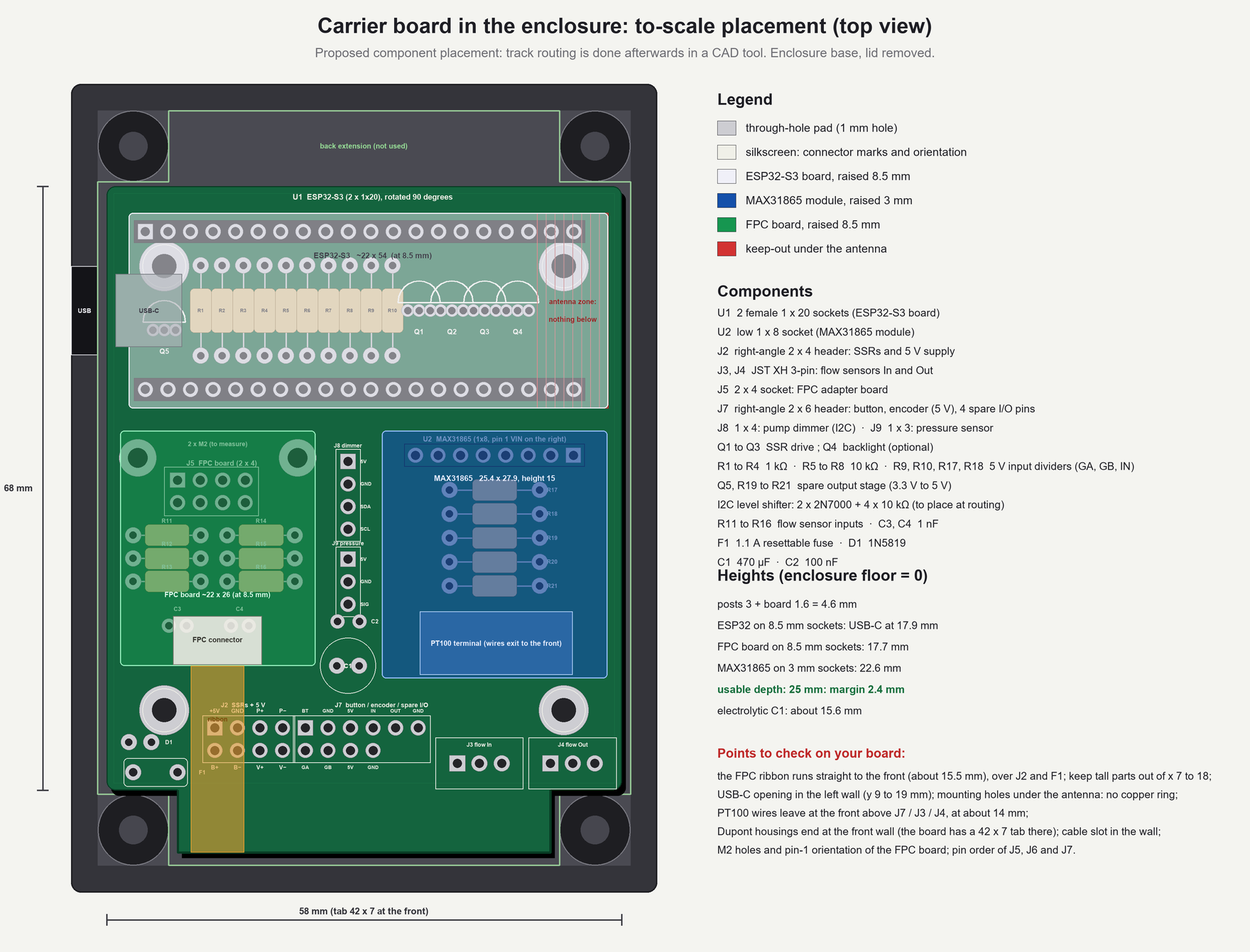
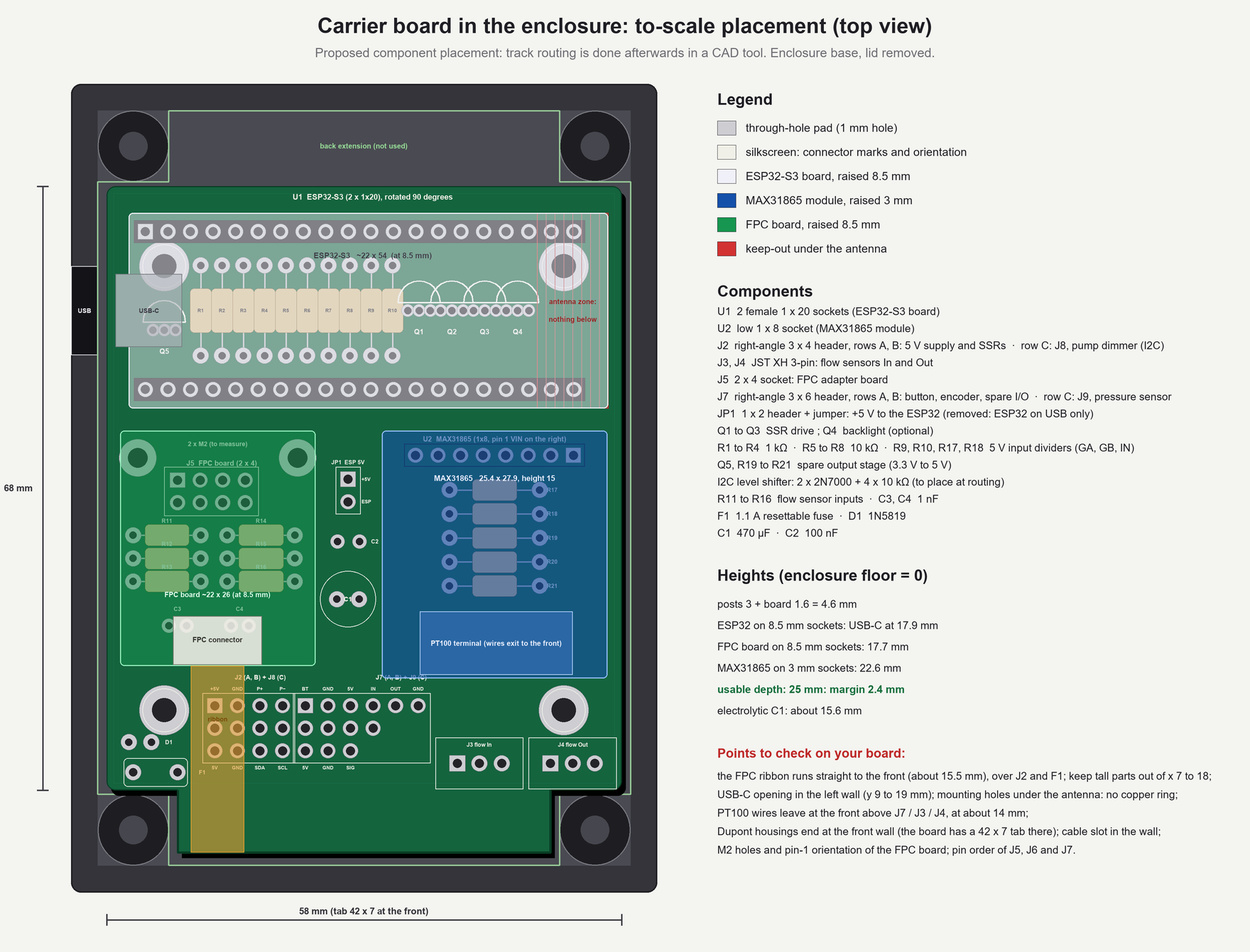
J8 under J2 and J9 under J7 on 3-row right-angle headers (Funduino 'courbe' 3x40); JP1 jumper on the ESP32 5V (fitted: external supply, removed: USB)

diff --git a/tools/board_placement.py b/tools/board_placement.py
@@ -164,48 +164,45 @@ for i, (name, xa) in enumerate([("C3", 7.0), ("C4", 14.0)]):
 
 # ---------------------------------------------------------------- front strip: J2 (2x4), J7 (1x6), polyfuse, diode, electrolytic, XH x2
 # Front edge: every right-angle header has its Dupont housings plugged in towards the front (about 9 mm of keep-out in front of the pads).
-# J2: 2 x 4 right-angle header, SSR + power (housing keep-out x 11.7 .. 21.9)
-for r_ in range(2):
+# J2 + J8: 3 x 4 right-angle header (three stacked rows of Dupont housings, "courbe" 3 x 40 strip cut to length). From the back of the
+# board: row A (+5 V, GND, pump) and row B (boiler, valve) are J2; row C, the lowest one, is J8 (pump dimmer, I2C), bare for now.
+ROWS = [58.5, 61.04, 63.58]
+for r_ in range(3):
     for c_ in range(4):
-        tpad(12.2 + c_ * 2.54, 61.0 + r_ * 2.54, square=(r_ == 0 and c_ == 0), ring=1.7, drill=1.0)
-rect(d, X(12.2) - 1.4 * K, Y(61.0) - 1.4 * K, X(12.2 + 3 * 2.54) + 1.4 * K, Y(63.54) + 1.4 * K, outline=SILK + (255,), width=2)
-silk(15.4, 58.4, "J2  SSRs + 5 V", 9)
+        tpad(12.2 + c_ * 2.54, ROWS[r_], square=(r_ == 0 and c_ == 0), ring=1.7, drill=1.0)
+rect(d, X(12.2) - 1.4 * K, Y(ROWS[0]) - 1.4 * K, X(12.2 + 3 * 2.54) + 1.4 * K, Y(ROWS[2]) + 1.4 * K, outline=SILK + (255,), width=2)
+silk(17.3, 55.3, "J2 (A, B) + J8 (C)", 9)
 for c_, lab in enumerate(["+5V", "GND", "P+", "P−"]):
-    text(d, X(12.2 + c_ * 2.54), Y(61.0) - 1.9 * K, lab, 8, SILK, True)
-for c_, lab in enumerate(["B+", "B−", "V+", "V−"]):
-    text(d, X(12.2 + c_ * 2.54), Y(63.54) + 1.9 * K, lab, 8, SILK, True)
-# J7: 2 x 6 right-angle header (two stacked rows of housings): button, encoder, and 4 spare pins (+5 V, IN, OUT, GND)
-# row A (top): BT, GND | +5 V, IN38, OUT39, GND      row B (bottom): +5 V, GND, A, B
+    text(d, X(12.2 + c_ * 2.54), Y(ROWS[0]) - 1.9 * K, lab, 7, SILK, True)
+for c_, lab in enumerate(["5V", "GND", "SDA", "SCL"]):
+    text(d, X(12.2 + c_ * 2.54), Y(ROWS[2]) + 1.9 * K, lab, 7, SILK, True)
+# J7 + J9: 3 x 6 right-angle header. Row A: button (2) + spare I/O (4); row B: encoder (GA, GB, VCC, GND); row C: J9, pressure sensor, bare.
 for c_ in range(6):
-    tpad(22.4 + c_ * 2.54, 61.0, square=(c_ == 0), ring=1.7, drill=1.0)
+    tpad(22.4 + c_ * 2.54, ROWS[0], square=(c_ == 0), ring=1.7, drill=1.0)
 for c_ in range(4):
-    tpad(22.4 + c_ * 2.54, 63.54, ring=1.7, drill=1.0)
-rect(d, X(22.4) - 1.4 * K, Y(61.0) - 1.4 * K, X(22.4 + 5 * 2.54) + 1.4 * K, Y(63.54) + 1.4 * K, outline=SILK + (255,), width=2)
-silk(31.0, 58.4, "J7  button / encoder / spare I/O", 9)
+    tpad(22.4 + c_ * 2.54, ROWS[1], ring=1.7, drill=1.0)
+for c_ in range(3):
+    tpad(22.4 + c_ * 2.54, ROWS[2], ring=1.7, drill=1.0)
+rect(d, X(22.4) - 1.4 * K, Y(ROWS[0]) - 1.4 * K, X(22.4 + 5 * 2.54) + 1.4 * K, Y(ROWS[2]) + 1.4 * K, outline=SILK + (255,), width=2)
+silk(33.2, 55.3, "J7 (A, B) + J9 (C)", 9)
 for c_, lab in enumerate(["BT", "GND", "5V", "IN", "OUT", "GND"]):
-    text(d, X(22.4 + c_ * 2.54), Y(61.0) - 1.9 * K, lab, 7, SILK, True)
-for c_, lab in enumerate(["GA", "GB", "5V", "GND"]):
-    text(d, X(22.4 + c_ * 2.54), Y(63.54) + 1.9 * K, lab, 7, SILK, True)
-# J8: 1 x 4 vertical header, dimmer (I2C), in the corridor between the FPC board and the MAX31865; J9: 1 x 3, pressure sensor
-for i, lab in enumerate(["5V", "GND", "SDA", "SCL"]):
-    tpad(27.2, 31.0 + i * 2.54, square=(i == 0), ring=1.7, drill=1.0)
-    text(d, X(28.6), Y(31.0 + i * 2.54), lab, 7, SILK, True, 'lm')
-rect(d, X(27.2) - 1.4 * K, Y(31.0) - 1.4 * K, X(27.2) + 1.4 * K, Y(31.0 + 3 * 2.54) + 1.4 * K, outline=SILK + (255,), width=2)
-silk(27.2, 29.2, "J8 dimmer", 8)
-for i, lab in enumerate(["5V", "GND", "SIG"]):
-    tpad(27.2, 42.0 + i * 2.54, square=(i == 0), ring=1.7, drill=1.0)
-    text(d, X(28.6), Y(42.0 + i * 2.54), lab, 7, SILK, True, 'lm')
-rect(d, X(27.2) - 1.4 * K, Y(42.0) - 1.4 * K, X(27.2) + 1.4 * K, Y(42.0 + 2 * 2.54) + 1.4 * K, outline=SILK + (255,), width=2)
-silk(27.2, 40.2, "J9 pressure", 8)
+    text(d, X(22.4 + c_ * 2.54), Y(ROWS[0]) - 1.9 * K, lab, 7, SILK, True)
+for c_, lab in enumerate(["5V", "GND", "SIG"]):
+    text(d, X(22.4 + c_ * 2.54), Y(ROWS[2]) + 1.9 * K, lab, 7, SILK, True)
+# JP1: 1 x 2 header + shunt in the corridor: +5 V board to the 5V pin of the ESP32 (fitted: normal; removed: the ESP32 on USB only)
+tpad(27.2, 33.0, square=True, ring=1.7, drill=1.0); tpad(27.2, 35.54, ring=1.7, drill=1.0)
+rect(d, X(27.2) - 1.4 * K, Y(33.0) - 1.4 * K, X(27.2) + 1.4 * K, Y(35.54) + 1.4 * K, outline=SILK + (255,), width=2)
+silk(27.2, 31.1, "JP1  ESP 5V", 8)
+text(d, X(28.7), Y(33.0), "+5V", 7, SILK, True, 'lm'); text(d, X(28.7), Y(35.54), "ESP", 7, SILK, True, 'lm')
 # F1 polyfuse (radial, pitch 5) and D1 1N5819 (standing) in the front-left corner, in front of the mounting hole
 tpad(3.0, 66.0, ring=1.8, drill=0.9); tpad(8.0, 66.0, ring=1.8, drill=0.9)
 rrect(d, X(1.9), Y(64.4), X(9.1), Y(67.6), 6, outline=SILK + (255,), width=2); text(d, X(10.4), Y(66.0), "F1", 8, SILK, True, 'lm')
 tpad(2.5, 62.6, ring=1.8, drill=0.8); tpad(5.04, 62.6, ring=1.8, drill=0.8)
 text(d, X(6.6), Y(62.6), "D1", 8, SILK, True, 'lm')
 # C1 470 uF (radial 6.3 mm) and C2 100 nF, in the corridor
-circ(d, X(27.2), Y(54.0), 3.15 * K, fill=None, outline=SILK + (255,), width=2)
-tpad(25.95, 54.0, ring=1.8, drill=0.8); tpad(28.45, 54.0, ring=1.8, drill=0.8); silk(27.2, 54.0, "C1", 9)
-tpad(26.0, 49.0, ring=1.6, drill=0.8); tpad(28.5, 49.0, ring=1.6, drill=0.8); text(d, X(29.8), Y(49.0), "C2", 8, SILK, True, 'lm')
+circ(d, X(27.2), Y(46.5), 3.15 * K, fill=None, outline=SILK + (255,), width=2)
+tpad(25.95, 46.5, ring=1.8, drill=0.8); tpad(28.45, 46.5, ring=1.8, drill=0.8); silk(27.2, 46.5, "C1", 9)
+tpad(26.0, 40.0, ring=1.6, drill=0.8); tpad(28.5, 40.0, ring=1.6, drill=0.8); text(d, X(29.8), Y(40.0), "C2", 8, SILK, True, 'lm')
 # JST XH x2: vertical headers, pins along x, the plugs come out upwards: no keep-out towards the front, away from the ribbon path (x 7 to 18)
 for k, (x0, name) in enumerate([(42.0, "J3 flow In"), (52.5, "J4 flow Out")]):
     for i in range(3):
@@ -271,11 +268,11 @@ text(d, lx, 410, "Components", 22, INK, True, 'lm')
 comp = [
     "U1  2 female 1 x 20 sockets (ESP32-S3 board)",
     "U2  low 1 x 8 socket (MAX31865 module)",
-    "J2  right-angle 2 x 4 header: SSRs and 5 V supply",
+    "J2  right-angle 3 x 4 header, rows A, B: 5 V supply and SSRs  ·  row C: J8, pump dimmer (I2C)",
     "J3, J4  JST XH 3-pin: flow sensors In and Out",
     "J5  2 x 4 socket: FPC adapter board",
-    "J7  right-angle 2 x 6 header: button, encoder (5 V), 4 spare I/O pins",
-    "J8  1 x 4: pump dimmer (I2C)  ·  J9  1 x 3: pressure sensor",
+    "J7  right-angle 3 x 6 header, rows A, B: button, encoder, spare I/O  ·  row C: J9, pressure sensor",
+    "JP1  1 x 2 header + jumper: +5 V to the ESP32 (removed: ESP32 on USB only)",
     "Q1 to Q3  SSR drive ; Q4  backlight (optional)",
     "R1 to R4  1 kΩ  ·  R5 to R8  10 kΩ  ·  R9, R10, R17, R18  5 V input dividers (GA, GB, IN)",
     "Q5, R19 to R21  spare output stage (3.3 V to 5 V)",
@@ -285,7 +282,7 @@ comp = [
     "C1  470 µF  ·  C2  100 nF",
 ]
 for i, t in enumerate(comp):
-    text(d, lx, 440 + i * 27, t, 15, INK, False, 'lm')
+    text(d, lx, 438 + i * 24, t, 15, INK, False, 'lm')
 
 text(d, lx, 810, "Heights (enclosure floor = 0)", 22, INK, True, 'lm')
 hs = [

diff --git a/tools/enclosure_overview.py b/tools/enclosure_overview.py
@@ -150,29 +150,28 @@ cuboid(ax0, ay0, top + HDR, 22, 26.5, 1.6, (22, 130, 70))
 cuboid(ax0 + 6, ay0 + 19.0, top + HDR + 1.6, 10, 5.5, 2.6, WHITE)                      # its FPC connector
 cuboid(ax0 + 1.0, ay0 + 3.1, top, 3.5, 3.5, HDR, (110, 110, 118))
 cuboid(ax0 + 17.5, ay0 + 3.1, top, 3.5, 3.5, HDR, (110, 110, 118))
-# J8 (dimmer, 1 x 4) and J9 (pressure, 1 x 3): straight headers in the corridor, plugs seated on top
-J8X, J8Y = CX0 + 27.2 - 1.27, CY0 + 31.0 - 1.27
-J9X, J9Y = CX0 + 27.2 - 1.27, CY0 + 42.0 - 1.27
-# (provisioned only: bare headers with their pins, nothing plugged in)
-cuboid(J8X, J8Y, top, 2.54, 10.16, 2.5, BLACK)
-cuboid(J9X, J9Y, top, 2.54, 7.62, 2.5, BLACK)
-for i in range(4):
-    cuboid(CX0 + 27.2 - 0.32, CY0 + 31.0 + i * 2.54 - 0.32, top + 2.5, 0.64, 0.64, 6.0, GOLD)
-for i in range(3):
-    cuboid(CX0 + 27.2 - 0.32, CY0 + 42.0 + i * 2.54 - 0.32, top + 2.5, 0.64, 0.64, 6.0, GOLD)
-# J2 (2 x 4 right-angle, rows stacked vertically) and ONE 2 x 4 housing plugged in from the front
-cuboid(CX0 + 12.2 - 1.27, CY0 + 60.2, top, 10.16, 5.0, 5.9, BLACK)
-cuboid(CX0 + 12.2 - 1.27 + 0.15, CY0 + 65.2, top + 0.4, 10.0, 8.6, 5.1, WHITE)
-# J7 (2 x 6 right-angle): lower row = 4-pin encoder housing, upper row = 2-pin button + 4-pin spare housings
-cuboid(CX0 + 22.4 - 1.27, CY0 + 60.2, top, 15.24, 5.0, 5.9, BLACK)
-cuboid(CX0 + 22.4 - 1.27 + 0.15, CY0 + 65.2, top + 0.4, 10.0, 8.6, 2.3, WHITE)
-cuboid(CX0 + 22.4 - 1.27 + 0.15, CY0 + 65.2, top + 3.0, 4.9, 8.6, 2.3, WHITE)
-cuboid(CX0 + 22.4 - 1.27 + 5.23, CY0 + 65.2, top + 3.0, 9.9, 8.6, 2.3, (225, 222, 205))
+# JP1: 1 x 2 header with its shunt in the corridor (+5 V board to the 5V pin of the ESP32)
+cuboid(CX0 + 27.2 - 1.27, CY0 + 33.0 - 1.27, top, 2.54, 5.08, 2.5, BLACK)
+for yy in (33.0, 35.54):
+    cuboid(CX0 + 27.2 - 0.32, CY0 + yy - 0.32, top + 2.5, 0.64, 0.64, 6.0, GOLD)
+cuboid(CX0 + 27.2 - 1.2, CY0 + 33.0 - 1.2, top + 2.5, 2.4, 4.9, 5.5, (40, 40, 44))      # the shunt, in place
+# J2 + J8: 3 x 4 right-angle header (3 rows: A and B = J2, C = J8, the lowest, bare), ONE 2 x 4 housing on rows A and B
+cuboid(CX0 + 12.2 - 1.27, CY0 + 57.7, top, 10.16, 7.8, 8.4, BLACK)
+cuboid(CX0 + 12.2 - 1.27 + 0.15, CY0 + 65.6, top + 2.9, 10.0, 8.6, 5.1, WHITE)
+for i in range(4):                                                                       # the bare pins of J8 (row C)
+    cuboid(CX0 + 12.2 + i * 2.54 - 0.32, CY0 + 65.5, top + 1.27 - 0.32, 0.64, 6.0, 0.64, GOLD)
+# J7 + J9: 3 x 6 right-angle header (A: button + spare, B: encoder, C: J9, bare)
+cuboid(CX0 + 22.4 - 1.27, CY0 + 57.7, top, 15.24, 7.8, 8.4, BLACK)
+cuboid(CX0 + 22.4 - 1.27 + 0.15, CY0 + 65.6, top + 2.95, 10.0, 8.6, 2.3, WHITE)
+cuboid(CX0 + 22.4 - 1.27 + 0.15, CY0 + 65.6, top + 5.5, 4.9, 8.6, 2.3, WHITE)
+cuboid(CX0 + 22.4 - 1.27 + 5.23, CY0 + 65.6, top + 5.5, 9.9, 8.6, 2.3, (225, 222, 205))
+for i in range(3):                                                                       # the bare pins of J9 (row C)
+    cuboid(CX0 + 22.4 + i * 2.54 - 0.32, CY0 + 65.5, top + 1.27 - 0.32, 0.64, 6.0, 0.64, GOLD)
 # polyfuse, standing diode, electrolytic, 100 nF, and the two JST XH (vertical headers with their plugs)
 cuboid(CX0 + 1.9, CY0 + 64.4, top, 7.2, 3.2, 11.0, (232, 200, 60))
 cuboid(CX0 + 1.2, CY0 + 61.2, top, 2.7, 2.7, 5.2, BLACK)
-cyl(CX0 + 27.2, CY0 + 54.0, 3.15, top, 12.0, (30, 40, 90))                                # 470 uF electrolytic
-cuboid(CX0 + 25.5, CY0 + 48.2, top, 4.0, 1.6, 4.2, (200, 120, 40))                        # 100 nF
+cyl(CX0 + 27.2, CY0 + 46.5, 3.15, top, 12.0, (30, 40, 90))                                # 470 uF electrolytic
+cuboid(CX0 + 25.5, CY0 + 39.2, top, 4.0, 1.6, 4.2, (200, 120, 40))                        # 100 nF
 for k in range(2):
     xb = CX0 + 42.0 + k * 10.5 - 4.95
     cuboid(xb, CY0 + 62.1, top, 9.9, 5.8, 5.8, WHITE)                                     # JST XH header
@@ -218,18 +217,18 @@ def riser_x(xc, yc, z0, z1, wires, color):
     cuboid(xc - w / 2, yc - TH / 2, z0, w, TH, z1 - z0, color)
 
 
-Y0 = CY0 + 73.8
+Y0 = CY0 + 74.2
 # J2: one 2 x 4 housing, two ribbons of 4 wires (row A on top: 5 V, GND, pump; row B below: boiler, valve)
 xj2 = CX0 + 12.2 + 1.5 * 2.54
 cA, cB = (205, 35, 35), (232, 130, 30)
-run_x(xj2, Y0, Y_END, top + 0.4 + 3.82, 4, cA); cable("row A: 5 V, GND, pump", "J2", 4, cA, (xj2, Y_END, top + 0.4 + 3.82))
-run_x(xj2, Y0, Y_END, top + 0.4 + 1.28, 4, cB); cable("row B: boiler, valve", "J2", 4, cB, (xj2, Y_END, top + 0.4 + 1.28))
+run_x(xj2, Y0, Y_END, top + 2.9 + 3.82, 4, cA); cable("row A: 5 V, GND, pump", "J2", 4, cA, (xj2, Y_END, top + 2.9 + 3.82))
+run_x(xj2, Y0, Y_END, top + 2.9 + 1.28, 4, cB); cable("row B: boiler, valve", "J2", 4, cB, (xj2, Y_END, top + 2.9 + 1.28))
 # J7: button (2 wires), encoder (4 wires, lower row), spare I/O (4 wires)
 xb, xe, xs = CX0 + 22.4 + 1.27, CX0 + 22.4 + 3.81, CX0 + 22.4 + 8.89
-run_x(xb, Y0, Y_END, top + 4.15, 2, (240, 240, 240)); cable("button", "J7", 2, (240, 240, 240), (xb, Y_END, top + 4.15))
-run_x(xe, Y0, Y_END, top + 1.55, 4, (40, 150, 70)); cable("encoder", "J7", 4, (40, 150, 70), (xe, Y_END, top + 1.55))
-run_x(xs, Y0, Y_END, top + 4.15, 4, (150, 90, 200)); cable("spare I/O", "J7", 4, (150, 90, 200), (xs, Y_END, top + 4.15))
-# J8 (dimmer) and J9 (pressure sensor) are provisioned but not plugged: no cable here
+run_x(xb, Y0, Y_END, top + 6.65, 2, (240, 240, 240)); cable("button", "J7", 2, (240, 240, 240), (xb, Y_END, top + 6.65))
+run_x(xe, Y0, Y_END, top + 4.1, 4, (40, 150, 70)); cable("encoder", "J7", 4, (40, 150, 70), (xe, Y_END, top + 4.1))
+run_x(xs, Y0, Y_END, top + 6.65, 4, (150, 90, 200)); cable("spare I/O", "J7", 4, (150, 90, 200), (xs, Y_END, top + 6.65))
+# J8 (dimmer, row C of J2) and J9 (pressure sensor, row C of J7) are provisioned but not plugged: no cable here
 # JST XH: flow sensors (3 wires each), up from the plugs then forward
 c3, c4 = (20, 150, 150), (90, 80, 190)
 riser_x(CX0 + 40.5, CY0 + 65.0, top + 11.8, top + 14.0, 3, c3)
@@ -299,7 +298,7 @@ pl(ax0 + 11, ay0 + 22, top + HDR + 4.2, 330, 520, "FPC connector pre-soldered")
 pl(sx0, sy0 + 50, FLOOR + 3, 330, 640, "3 mm small posts (45 x 50)")
 pl(BX - WALL - 4, BY - WALL - 4, BASE_H, 1560, 520, "8 mm round corner posts")
 pl(CX0 + 30, BY, FW, 1560, 640, "slot to cut in the front wall (cables)")
-pl(CX0 + 27.2, CY0 + 40, top + 8.5, 330, 740, "J8, J9: provisioned, not plugged")
+pl(CX0 + 27.2, CY0 + 34, top + 8.5, 330, 740, "JP1: jumper, +5 V to the ESP32")
 
 # numbered tags at the cable ends, staggered so that they do not overlap
 ends = []

diff --git a/tools/board_schematic.py b/tools/board_schematic.py
@@ -31,40 +31,37 @@ def head(x, y, title, sub=None):
     if sub:
         T(x, y + 28, sub, F(15), GRY, 'lm')
 
-# ---- J2 : 2 x 4 right-angle header, ONE 2 x 4 Dupont housing, two ribbons of 4 wires (one per row)
-head(60, 118, "J2: right-angle 2 x 4 male header, one 2 x 4 Dupont housing", "two ribbons of 4 wires: row A (top) and row B (bottom)")
+# ---- J2 + J8 : 3 x 4 right-angle header (3 stacked rows), J7 + J9 : 3 x 6
+head(60, 118, "J2 + J8: right-angle 3 x 4 male header", "rows A and B: J2 (one 2 x 4 housing, two ribbons of 4 wires); row C: J8")
 rowA = [("+5 V", RED), ("GND", DK), ("pump +", BRN), ("pump −", BRN)]
 rowB = [("boiler +", ORG), ("boiler −", ORG), ("valve +", YEL), ("valve −", YEL)]
-x0, yA, yB = 60, 190, 240
+rowC = [("+5 V", RED), ("GND", DK), ("SDA", VIO), ("SCL", VIO)]
+x0, yA, yB, yC = 60, 186, 232, 278
 for i, (lab, col) in enumerate(rowA):
     pin(x0 + i * 88, yA, lab, col, 14)
 for i, (lab, col) in enumerate(rowB):
     pin(x0 + i * 88, yB, lab, col, 14)
-T(x0 + 2 * 88, 306, "ribbon 1: 5 V supply + pump SSR", F(13, True), RED, 'mm') if False else None
-T(x0 + 176, 306, "ribbon 1 (row A): 5 V supply, then pump SSR", F(13, True), RED)
-T(x0 + 176, 328, "ribbon 2 (row B): boiler SSR, then valve SSR", F(13, True), ORG)
-T(x0 + 370, 214, "a 2 x 4 housing can be plugged 180 degrees", F(14), GRY, 'lm')
-T(x0 + 370, 236, "the wrong way round: use a keyed (shrouded)", F(14), GRY, 'lm')
-T(x0 + 370, 258, "2 x 4 header, or mark the housing", F(14), GRY, 'lm')
+for i, (lab, col) in enumerate(rowC):
+    pin(x0 + i * 88, yC, lab, col, 14)
+T(x0 + 370, 196, "row A: 5 V supply + pump SSR (ribbon 1)", F(14, True), RED, 'lm')
+T(x0 + 370, 242, "row B: boiler SSR + valve SSR (ribbon 2)", F(14, True), ORG, 'lm')
+T(x0 + 370, 288, "row C: J8 pump dimmer, RobotDyn (I2C)", F(14, True), VIO, 'lm')
+T(x0 + 370, 312, "a 2 x 4 housing can be plugged 180 degrees the wrong way:", F(13), GRY, 'lm')
+T(x0 + 370, 330, "mark it, or key the header", F(13), GRY, 'lm')
 
-# ---- J7 : 2 x 6 (two stacked rows of housings)
-head(60, 350, "J7: right-angle 2 x 6 male header: button, encoder (5 V) and 4 spare I/O pins")
+head(60, 366, "J7 + J9: right-angle 3 x 6 male header")
 j7a = [("button", (90, 90, 96)), ("GND", DK), ("+5 V", RED), ("IN 38", VIO), ("OUT 39", VIO), ("GND", DK)]
 j7b = [("GA", GRN), ("GB", GRN), ("+5 V", RED), ("GND", DK)]
+j7c = [("+5 V", RED), ("GND", DK), ("signal", BLU)]
 for i, (lab, col) in enumerate(j7a):
-    pin(60 + i * 88, 382, lab, col, 14)
+    pin(60 + i * 88, 396, lab, col, 14)
 for i, (lab, col) in enumerate(j7b):
-    pin(60 + i * 88, 430, lab, col, 14)
-T(620, 404, "row A: 2-pin + 4-pin spare", F(14), GRY, 'lm')
-T(620, 452, "row B: 4-pin encoder (module order)", F(14), GRY, 'lm')
-
-# ---- J8 / J9
-head(60, 490, "J8: pump dimmer (I2C)", "RobotDyn 4 A, DimmerLink")
-for i, (lab, col) in enumerate([("+5 V", RED), ("GND", DK), ("SDA", VIO), ("SCL", VIO)]):
-    pin(60 + i * 88, 548, lab, col, 14)
-head(480, 490, "J9: pressure sensor", "0.5 to 4.5 V, 0 to 12 bar")
-for i, (lab, col) in enumerate([("+5 V", RED), ("GND", DK), ("signal", BLU)]):
-    pin(480 + i * 88, 548, lab, col, 14)
+    pin(60 + i * 88, 442, lab, col, 14)
+for i, (lab, col) in enumerate(j7c):
+    pin(60 + i * 88, 488, lab, col, 14)
+T(620, 418, "row A: button (2) + spare I/O (4)", F(14), GRY, 'lm')
+T(620, 464, "row B: encoder (module order)", F(14), GRY, 'lm')
+T(620, 510, "row C: J9 pressure sensor", F(14), GRY, 'lm')
 
 # ---- J3 / J4
 head(60, 628, "J3, J4: JST XH 3-pin, flow sensors In and Out", "sensor wire order: often red / yellow / black: check your cable")
@@ -92,7 +89,7 @@ for i, (lab, col) in enumerate(mx):
 # ================================================================ 2. GPIO table
 gx = 860
 T(gx, 118, "ESP32-S3: pins used", F(22, True), INK, 'lm')
-rows = [("5V", "+5 V (after diode and fuse): MAX, dimmer", RED), ("3V3", "display, I2C pull-ups (3.3 V side)", RED),
+rows = [("5V", "+5 V via JP1 (after diode and fuse)", RED), ("3V3", "display, I2C pull-ups (3.3 V side)", RED),
         ("GPIO 17", "pump SSR drive", BRN), ("GPIO 18", "boiler SSR drive", ORG), ("GPIO 21", "valve SSR drive", YEL),
         ("GPIO 15", "flow In", BLU), ("GPIO 16", "flow Out", BLU), ("GPIO 1", "pressure sensor (ADC)", BLU),
         ("GPIO 4 / 5", "encoder A / B", GRN), ("GPIO 6", "start button", (90, 90, 96)),
@@ -146,6 +143,9 @@ T(cx0 + 300, 200, "+5 V board", F(14, True), RED, 'lm')
 L([(cx0 + 215, 200), (cx0 + 215, 232)], RED, 2)
 L([(cx0 + 205, 232), (cx0 + 225, 232)], INK, 3); L([(cx0 + 205, 240), (cx0 + 225, 240)], INK, 3)
 L([(cx0 + 215, 240), (cx0 + 215, 262)], INK, 2); T(cx0 + 215, 276, "470 µF + 100 nF", F(11, True))
+
+T(cx0, 292, "JP1 (1 x 2 header + jumper): +5 V board -> ESP32 5V pin", F(12, True), RED, 'lm')
+T(cx0, 306, "fitted: normal; removed: the ESP32 is powered by its USB port", F(12), GRY, 'lm')
 
 # SSR driver
 T(cx0, 330, "SSR drive (x3)", F(17, True), BRN, 'lm')
@@ -202,6 +202,7 @@ T(cx0 + 20, 1310, "GPIO high -> OUT low; GPIO low -> OUT 5 V (invert in firmware
 # ================================================================ 4. notes
 T(60, 1140, "Design notes", F(22, True), INK, 'lm')
 notes = [
+    "JP1: fitted, the ESP32 takes its 5 V from the board; removed, from its USB port only (never fit it with USB plugged).",
     "The three voltage levels: +5 V board (after fuse and diode), 3.3 V from the ESP32-S3 board, common GND.",
     "The display module has its own backlight transistor: BLK is driven directly by GPIO 14 (stage Q4 optional).",
     "No regulator on the board: the ESP32-S3 provides the 3.3 V, which now only feeds the display and the I2C pull-ups.",

diff --git a/docs/carrier_spec.md b/docs/carrier_spec.md
@@ -10,6 +10,7 @@ All **through-hole** parts (no SMD soldering). Related files: `images/board_plac
 - Usable depth **25 mm**: posts 3 + board 1.6 = 4.6 mm; ESP32 on 8.5 mm sockets (USB-C at 17.9 mm); FPC adapter board on 8.5 mm sockets (17.7 mm); MAX31865 on low 3 mm sockets (22.6 mm, 2.4 mm margin).
 - **ESP32-S3 rotated 90 degrees** (long side across the board, at the back, y 3 to 25 mm): **USB-C towards the left wall**, with an opening in that wall at y 9 to 19 mm (the connector is then far from the 8 mm corner posts). The antenna end is on the right (x 48.5 to 56.5 mm).
 - **Under the ESP32 (between the two socket rows, 8.5 mm clearance):** vertical axial resistors R1 to R10, then Q1 to Q4 on the right; Q5 (spare output) at the left, next to the USB end. The two small standoffs at the back (6.5, 9) and (51.5, 9) are under the ESP32; the one on the right is under the antenna, so use a **non-plated hole with no copper ring** there.
+- **Connector rows:** J8 is the lowest row of the J2 header and J9 the lowest row of the J7 header (3-row right-angle strips; each row has its own Dupont housing, rows are 2.54 mm apart vertically, the housings are not keyed: mind the order). J8 and J9 stay bare for now. The corridor between the FPC board and the MAX31865 holds JP1, C1 and C2.
 - **Below the ESP32, side by side:** the FPC adapter board on the **left** (x 1.5 to 23.5 mm, connector towards the front, flow-input parts R11 to R16 and C3, C4 under it), the MAX31865 on the **right** (x 31 to 56.4 mm, rotated 180 degrees: header on its rear edge, pin 1 VIN on the right, PT100 terminal block facing the front), and a corridor between them (x 23.5 to 31 mm) holding J8, J9, C1 and C2.
 - **Front connector row:** right-angle headers with their Dupont housings need about **9 mm in front of the pads** (keep-out, nothing else there); J2 and J7 are on the 42 x 7 mm tab, the vertical JST XH J3 and J4 at the front right, F1 and D1 in the front-left corner. A cable slot is needed in the front wall (housings end about 1 mm from it).
 - **All cables leave through the front** (J2, J7, J3, J4, the PT100 wires and the display ribbon). Only the USB-C cable leaves through the left wall.
@@ -21,16 +22,17 @@ All **through-hole** parts (no SMD soldering). Related files: `images/board_plac
 ## Connectors
 | Ref | Type | Role |
 |---|---|---|
-| J2 | 2 x 4 right-angle male header, one 2 x 4 female Dupont housing (two ribbons of 4 wires) | 5 V supply + 3 SSRs |
+| J2 | rows A and B of a **3 x 4 right-angle male header** (one 2 x 4 female Dupont housing, two ribbons of 4 wires) | 5 V supply + 3 SSRs |
 | J3, J4 | JST XH 3-pin, vertical, rotated (real pitch 2.5 mm) | flow sensors In and Out |
 | J5 | 2 x 4 female socket | FPC adapter board (8 pins, ribbon to the remote display) |
 | J6 | 1 x 8 female socket (low, 3 mm) | MAX31865 module |
-| J7 | 2 x 6 right-angle male header | button + encoder (encoder powered from 5 V) + 4 spare I/O pins (+5 V, level-adapted input, level-adapted output, GND) |
-| J8 | 1 x 4 header | RobotDyn 4 A pump dimmer, **I2C** (powered from 5 V, through an I2C level shifter) |
-| J9 | 1 x 3 header | pressure sensor 0.5 to 4.5 V, 0 to 12 bar (powered from 5 V) |
+| J7 | rows A and B of a **3 x 6 right-angle male header** | button + encoder (encoder powered from 5 V) + 4 spare I/O pins (+5 V, level-adapted input, level-adapted output, GND) |
+| J8 | row C (the lowest) of the J2 header, 4 pins | RobotDyn 4 A pump dimmer, **I2C** (powered from 5 V, through an I2C level shifter) |
+| J9 | row C (the lowest) of the J7 header, first 3 pins | pressure sensor 0.5 to 4.5 V, 0 to 12 bar (powered from 5 V) |
+| JP1 | 1 x 2 male header + shunt jumper | +5 V board to the 5V pin of the ESP32 (see Circuits) |
 | ESP | 2 x 1 x 20 female sockets | ESP32-S3 board (about 22 x 54 mm from the photo; row spacing to be measured) |
 
-### J2 (2 x 4: row A on top, row B at the bottom, pin 1 on the left)
+### J2 (rows A and B of the 3 x 4 header: row A at the back, row B below it, row C = J8 at the bottom; pin 1 on the left)
 | | 1 | 2 | 3 | 4 |
 |---|---|---|---|---|
 | A | +5 V | GND | pump + | pump − |
@@ -38,7 +40,7 @@ All **through-hole** parts (no SMD soldering). Related files: `images/board_plac
 
 **One 2 x 4 Dupont housing**, two ribbons of 4 wires (one per row): ribbon 1 = 5 V supply and pump SSR, ribbon 2 = boiler SSR and valve SSR. Warning: an unkeyed 2 x 4 housing can be plugged 180 degrees the wrong way round (+5 V would land on the valve SSR "−" input and so on). Use a **keyed (shrouded) 2 x 4 IDC-style header** with its notch, or at least mark the housing and the header.
 
-### J7 (2 x 6, right-angle: two stacked rows of Dupont housings)
+### J7 (rows A and B of the 3 x 6 header, right-angle: stacked rows of Dupont housings; row C = J9 at the bottom)
 | | 1 | 2 | 3 | 4 | 5 | 6 |
 |---|---|---|---|---|---|---|
 | Row A (upper) | button (GPIO 6) | GND | **+5 V** | **IN (GPIO 38)** | **OUT (GPIO 39)** | **GND** |
@@ -55,7 +57,7 @@ The two GPIO numbers (38 and 39) are provisional free GPIOs of the ESP32-S3 chip
 ### 5 V inputs protection (encoder)
 The ESP32-S3 only accepts 3.3 V. Since the encoder module is powered from 5 V, its outputs (A, B, button) can reach 5 V if the module has pull-ups to 5 V. GA, GB and the spare GPIO 38 therefore each go through a divider: 4.7 kΩ in series to the GPIO, then 10 kΩ from the GPIO to GND (5 V becomes 3.4 V). The start button (J7 row A, "button") is a dry contact to GND: it needs no divider, only the ESP32 internal pull-up and 100 nF against bounce. **To check:** if your module is a bare encoder without pull-up resistors, 10 kΩ pull-ups to 5 V are needed (provide optional footprints).
 
-### J8 (pump dimmer, 1 x 4, in the module's order)
+### J8 (pump dimmer, row C of the J2 header, 4 pins in the module's order)
 | 1 | 2 | 3 | 4 |
 |---|---|---|---|
 | VCC (+5 V) | GND | SDA | SCL |
@@ -77,7 +79,7 @@ The module stays off the board, on the mains side: only the control cable comes 
 
 Pump: Olab Silent Green K09541 / K09541L (datasheet): self-priming vibration pump, 35 W class F coil, available in 230 V / 50 Hz or 120 V / 60 Hz (check the label of yours), water 5 to 35 °C, brass or plastic outlet. Pressure-flow curve (±15 %): about 19 bar at zero flow, 13 bar at 100 cm³/min, 3.5 bar at 300 cm³/min, 0 bar at about 420 cm³/min. Phase-angle dimming is a common practice on this type of pump. The dimmer goes in series with the pump; keep the pump SSR in series as a hard cut-off (the dimmer alone does not guarantee a complete stop). At low power the pump may vibrate without pumping: provide a minimum setting, to be calibrated with the pressure sensor. 35 W (about 0.15 A at 230 V) is far below the 4 A rating of the dimmer.
 
-### J9 (pressure sensor, 1 x 3)
+### J9 (pressure sensor, row C of the J7 header, first 3 pins)
 | 1 | 2 | 3 |
 |---|---|---|
 | +5 V | GND | signal |
@@ -110,7 +112,7 @@ Silkscreen read on the photo, left column from the USB-C end: GND, 5V, G48, BOOT
 5V, 3V3, GND; GPIO 17 (pump SSR), 18 (boiler SSR), 21 (valve SSR); 15 (flow In), 16 (flow Out); 4 / 5 (encoder); 6 (button); 11 / 12 / 13 (SPI MOSI / SCK / MISO); 10 (display CS); 9 / 8 (display DC / RST); 14 (backlight); 7 (MAX31865 CS); 47 / 48 (dimmer, I2C SDA / SCL); 1 (pressure, ADC); 38 (spare, on J7). Avoided: 0, 3, 45, 46, 19, 20, 35 to 37 (not broken out on this board).
 
 ## Circuits
-- **Power:** J2 A1 (+5 V) → 1.1 A resettable fuse → 1N5819 diode (reverse protection) → +5 V rail (470 µF + 100 nF) → ESP32 5V pin. The 3.3 V comes from the ESP32 board.
+- **Power:** J2 A1 (+5 V) → 1.1 A resettable fuse → 1N5819 diode (reverse protection) → +5 V rail (470 µF + 100 nF) → **JP1** → 5V pin of the ESP32. The 3.3 V comes from the ESP32 board. **JP1** (1 x 2 header + shunt jumper): **fitted = normal operation**, the ESP32 takes its 5 V from the external supply through the Dupont connector; **removed = the ESP32 is powered by its USB port only** (the rest of the board stays on the external supply). Never fit JP1 while a USB cable is plugged in: the two 5 V sources would be tied together (and the supply could back-feed the computer).
 - **SSR (x3):** GPIO → 1 kΩ → 2N2222A base; 10 kΩ base → GND; SSR "+" input to the +5 V rail, "−" input to the collector; emitter to GND. The SSR input receives about 4.8 V.
 - **Flow sensor (x2):** signal → 10 kΩ to +5 V; signal → 4.7 kΩ → GPIO; GPIO → 10 kΩ → GND; 1 nF GPIO → GND. Works with a 5 V output (the divider gives about 3.4 V) or with an open collector.
 - **Display backlight:** BLK ← GPIO 14 directly (the display module has its own transistor). Optional stage Q4: GPIO 14 → 1 kΩ → 2N2222A base, not fitted by default.
@@ -123,7 +125,8 @@ Silkscreen read on the photo, left column from the USB-C end: GND, 5V, G48, BOOT
 | 2 | 1 x 20 female sockets, 8.5 mm | 1 € |
 | 1 | MAX31865 module (owned) + low 1 x 8 socket | 0.3 € |
 | 1 | 8-pin FPC board (owned) + 2 x 4 male header + 2 x 4 female socket | 0.5 € |
-| 1 | right-angle 2 x 4 + right-angle 2 x 6 male headers, 1 x 4 and 1 x 3 male headers | 0.8 € |
+| 1 | 3-row right-angle 2.54 mm male header strip ("courbé" 3 x 40, e.g. Funduino, about 1.7 €): cut one 3 x 4 (J2 + J8) and one 3 x 6 (J7 + J9) | 1.7 € |
+| 1 | 1 x 2 male header + shunt jumper (JP1) | 0.2 € |
 | 2 | JST XH 3-pin headers | 0.5 € |
 | 4 | 2N2222A transistors (3 SSRs + spare output; backlight stage optional) | 0.6 € |
 | 2 | 2N7000 MOSFETs (I2C level shifter) | 0.3 € |
